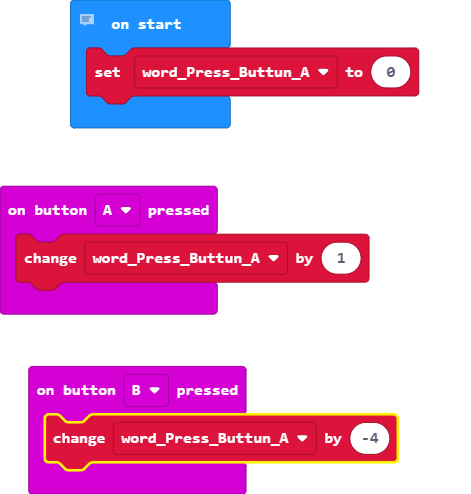
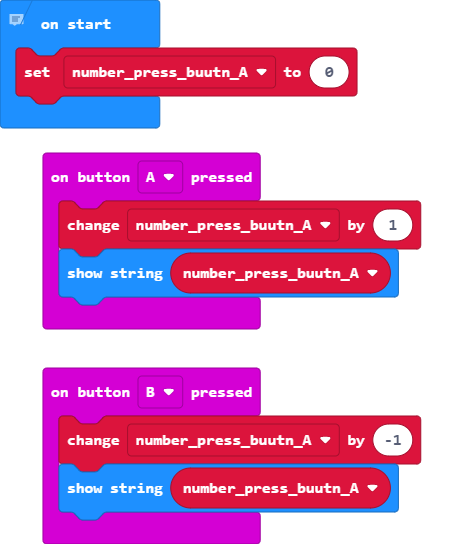
add comment

diff --git a/main.ts b/main.ts
@@ -1,12 +1,14 @@
 input.onButtonPressed(Button.A, function () {
-    word_Press_Buttun_A += 1
+    number_press_buutn_A += 1
+    basic.showString("" + (number_press_buutn_A))
 })
 input.onButtonPressed(Button.B, function () {
-    word_Press_Buttun_A += -4
+    number_press_buutn_A += -1
+    basic.showString("" + (number_press_buutn_A))
 })
 // Created By: Ahmed Ali
-// 
 // Created on: Sep 28, 2020.
 // 
 // This program use  variable.
-let word_Press_Buttun_A = 0
+let number_press_buutn_A = 0
+number_press_buutn_A = 0
